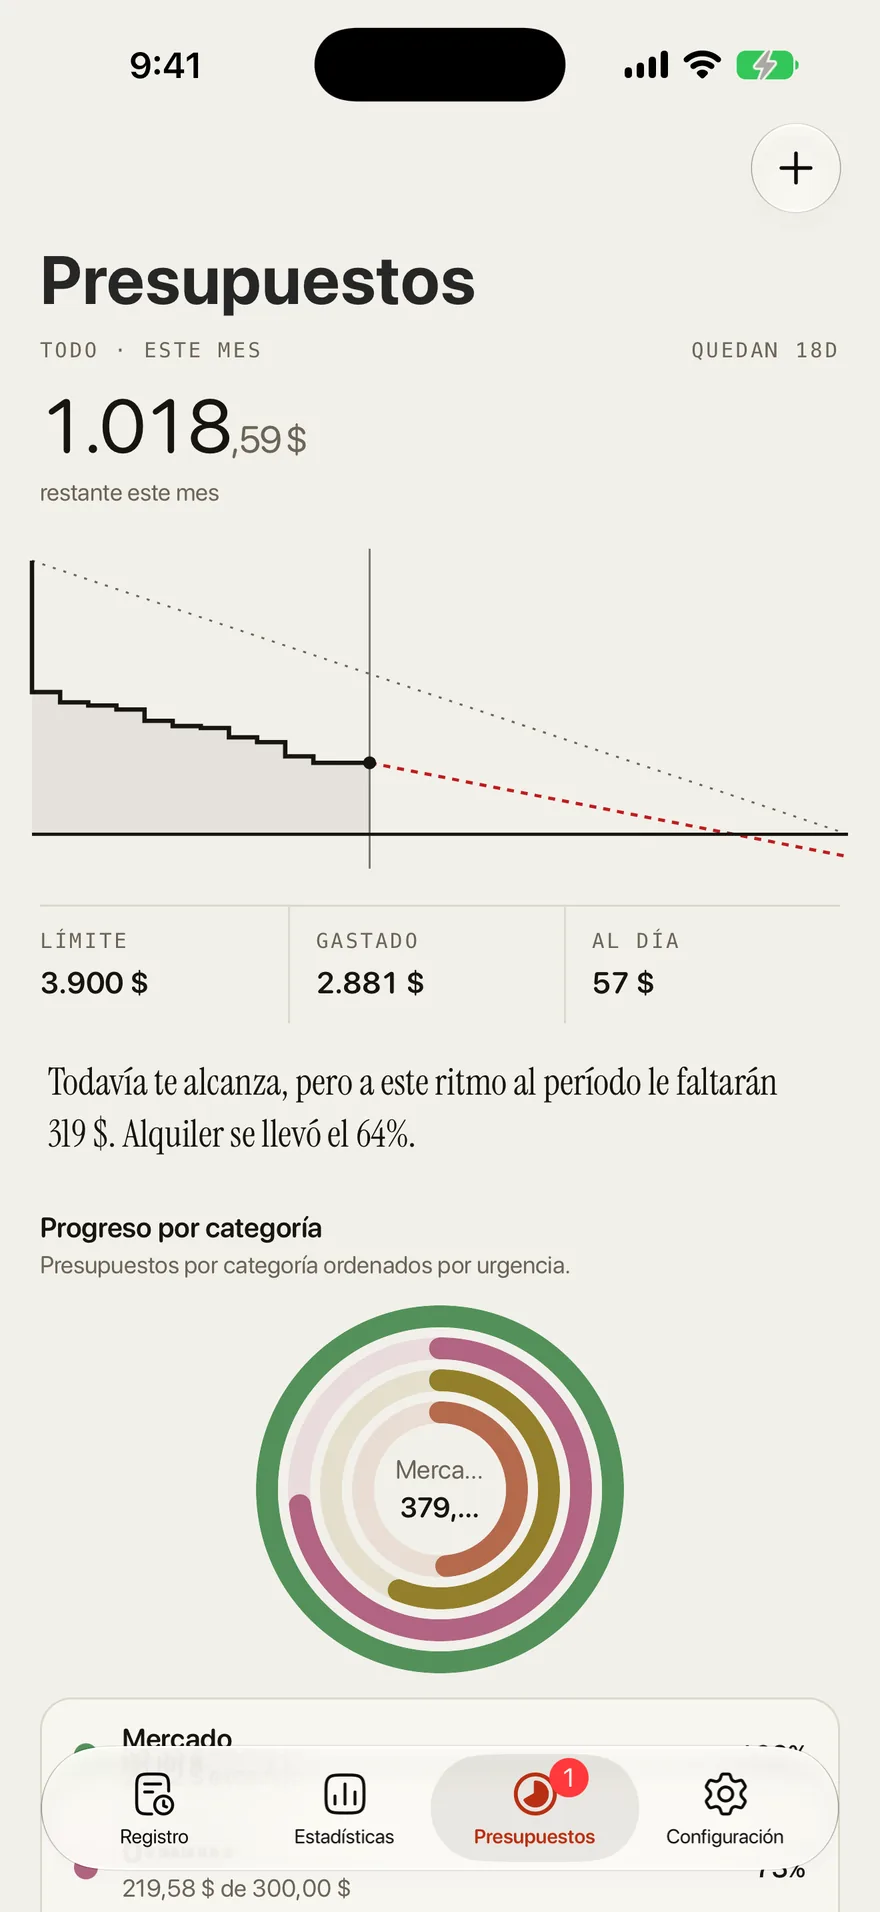
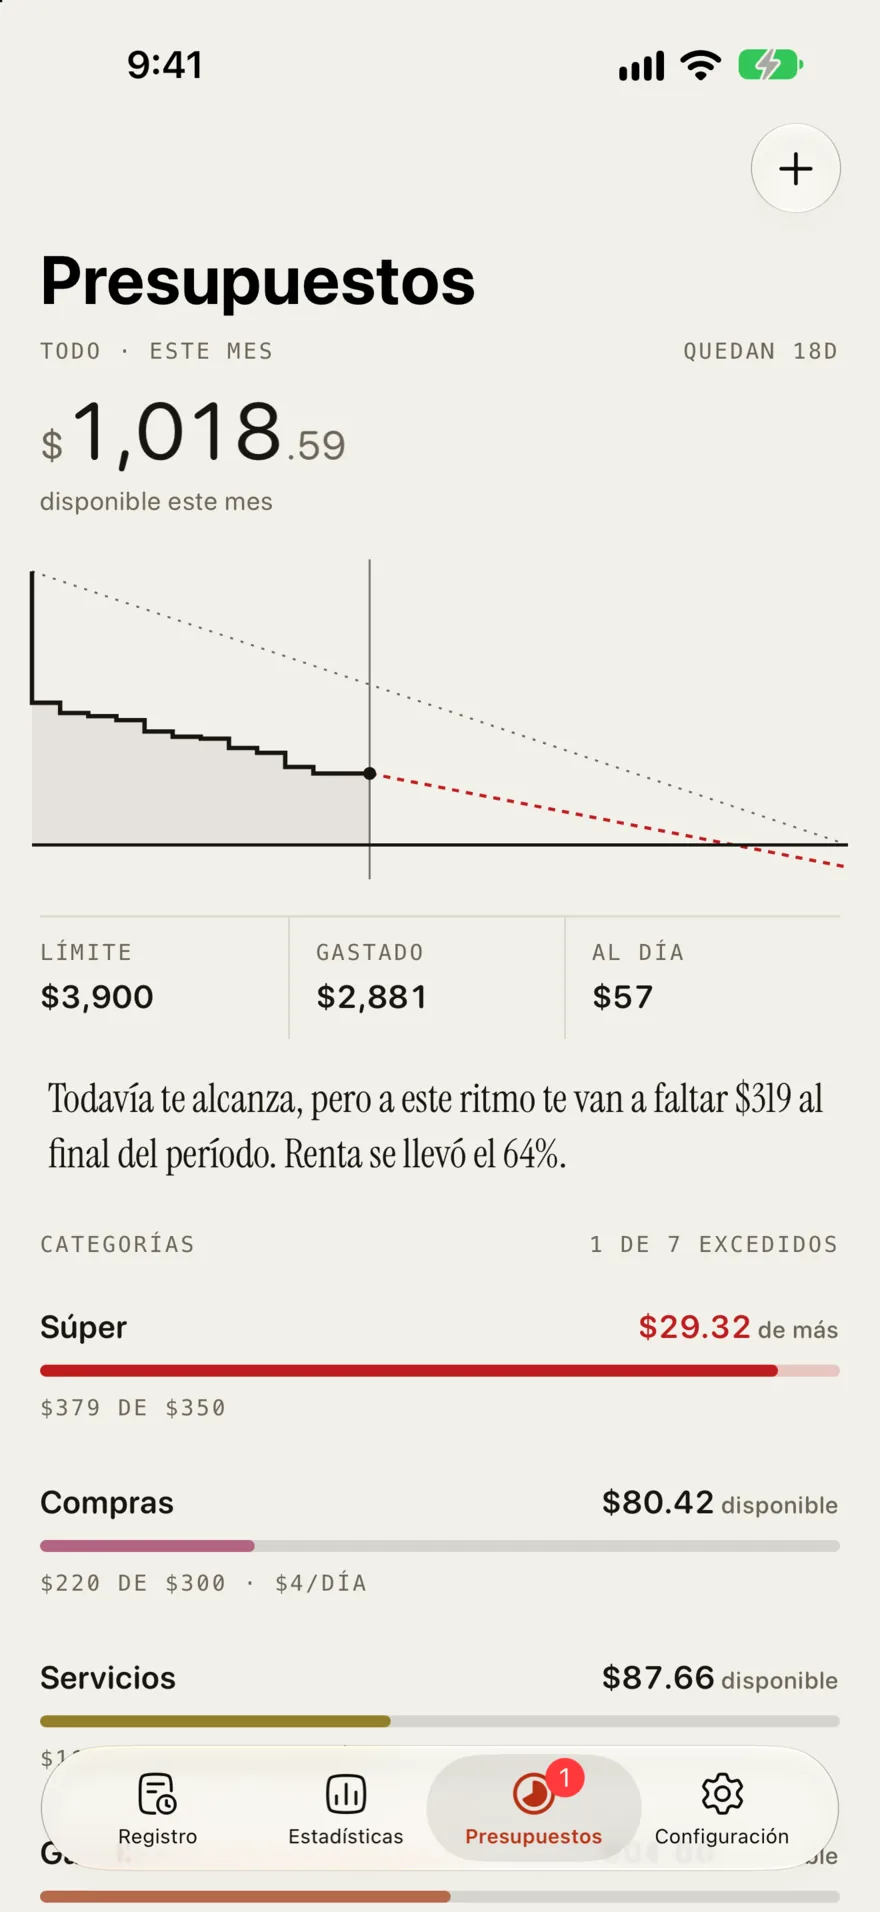
feat(web): Spanish dark-mode app screenshots, recaptured from the current app (#74)
/es showed the English dark captures in dark mode, under Spanish alt
text. Screens 04, 05, 06 and 10 are recaptured in Spanish, light and
dark, from the current app on a seeded simulator with the clock pinned
to the deck's days (Sep 12, and Sep 13 for Budgets, so the numbers
match: $319 short, 18 days left, 6-12 Sep).

screenSources now serves /screens/es/NN-dark.webp on /es. The Spanish
Accounts alt text describes the current Accounts screen (what you have
and owe, six accounts and two cards).

diff --git a/apps/web/src/content/shared.ts b/apps/web/src/content/shared.ts
@@ -19,5 +19,5 @@ export const BUDGETS_SCREEN_ALT = t({
 
 export const ACCOUNTS_SCREEN_ALT = t({
     en: "Outlayr Accounts screen listing eight accounts, including Banesco in bolívares and an Apple Card with a negative balance, above a Transfer button.",
-    es: "Pantalla de cuentas de Outlayr con ocho cuentas, entre ellas Banesco en bolívares y una Apple Card con saldo negativo, arriba de un botón para transferir.",
+    es: "Pantalla de cuentas de Outlayr: tienes $26,175.52 y debes $2,082.70, con seis cuentas, entre ellas Banesco en bolívares, y dos tarjetas, Amex Gold y Apple Card.",
 });

diff --git a/apps/web/src/components/home/media.tsx b/apps/web/src/components/home/media.tsx
@@ -58,7 +58,8 @@ const SPANISH_SCREENS = new Set(["04", "05", "06", "10"]);
 
 export function screenSources(name: string, locale: string) {
     const spanish = locale === "es" && SPANISH_SCREENS.has(name);
-    return { dark: `/screens/${name}-dark.webp`, src: spanish ? `/screens/es/${name}.webp` : `/screens/${name}.webp` };
+    const base = spanish ? `/screens/es/${name}` : `/screens/${name}`;
+    return { dark: `${base}-dark.webp`, src: `${base}.webp` };
 }
 
 export function Screen({
